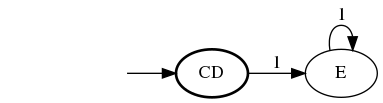
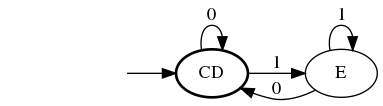
somos unas cracks

diff --git a/p2/minimiza.c b/p2/minimiza.c
@@ -336,9 +336,9 @@ AFND* nuevos_estados(estru* estru_nueva, AFND* afd, int* visitados){
   }
   /*ESTO SE BORRA --> funcionaaaaa*/
   for (k = 0; k < estados; k++){
-    for(i = 0; i < num_estados; i++){
-      for(j = 0; j < num_simbolos; j++){
-        printf("%d ", get_transiciones(estados_nuevos[k])[j][i]);
+    for(i = 0; i < num_simbolos ; i++){
+      for(j = 0; j < num_estados; j++){
+        printf("%d ", get_transiciones(estados_nuevos[k])[i][j]);
       }
       printf("\n");
     }
@@ -375,11 +375,11 @@ AFND* automata_fin(AFND* afnd, estado** estados_nuevos, int estados){
       for (k = 0; k < num_simbolos; k++){
         mismo = 0;
         for (l = 0; l < estados_totales; l++){
-          if (get_transiciones(estados_nuevos[i])[k][l] == get_codificacion_mia(estados_nuevos[j])[l]){
-            mismo ++;
+          if (mismo == 0 && get_transiciones(estados_nuevos[i])[k][l] == 1 && get_codificacion_mia(estados_nuevos[j])[l] == 1){
+            mismo = 1;
           }
         }
-        if (mismo == estados_totales){
+        if (mismo == 1){
           AFNDInsertaTransicion(p_afnd_min, get_nombre_estado(estados_nuevos[i]), AFNDSimboloEn(p_afnd_min,k), get_nombre_estado(estados_nuevos[j]));
         }
       }

diff --git a/p2/estado.c b/p2/estado.c
@@ -11,7 +11,7 @@ struct _estado{
 };
 
 estado* crear_estado(int num_simbolos, int num_estados, char* nombre, int pos, int tipo){
-  int i;
+  int i, j;
   estado* state = (estado*)malloc(sizeof(estado));
   state->num_simbolos = num_simbolos;
   state->num_estados = num_estados;
@@ -30,6 +30,9 @@ estado* crear_estado(int num_simbolos, int num_estados, char* nombre, int pos, i
 
   for (i = 0; i < num_simbolos; i++){
     state->transiciones[i] = (int*)malloc(num_estados*sizeof(int));
+    for(j = 0; j < num_estados; j++){
+      state->transiciones[i][j] = 0;
+    }
   }
   return state;
 }
